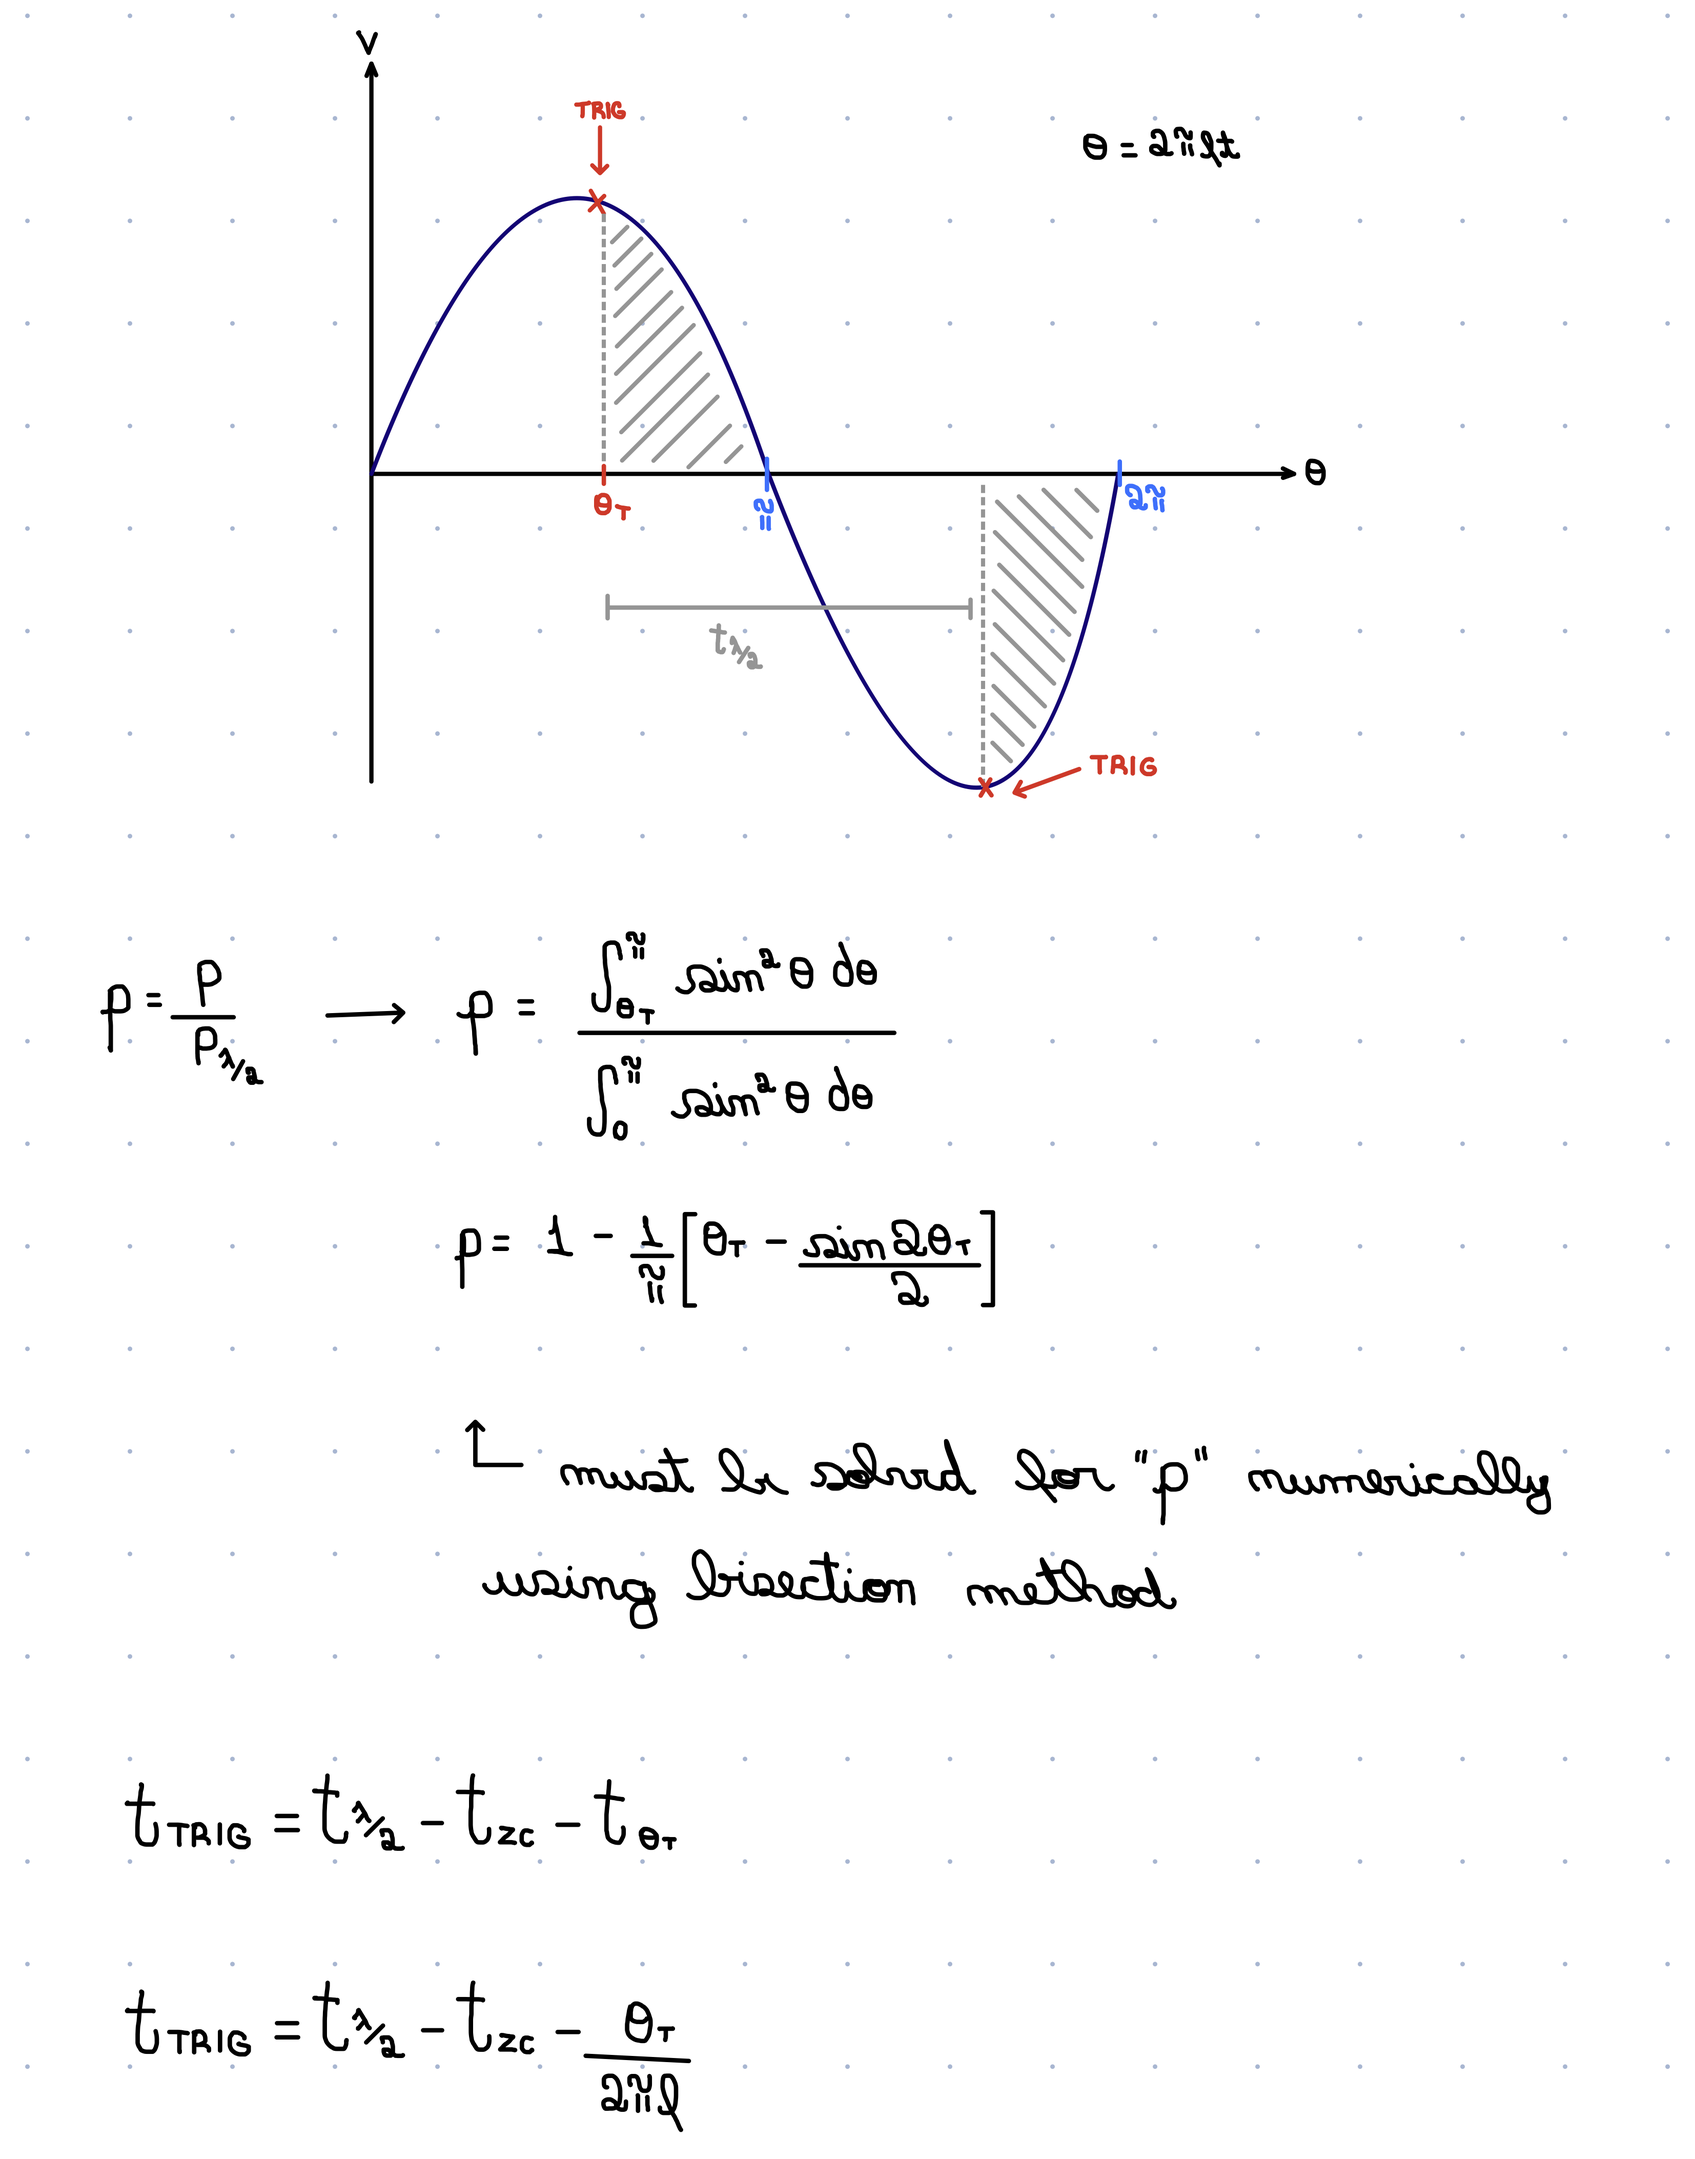
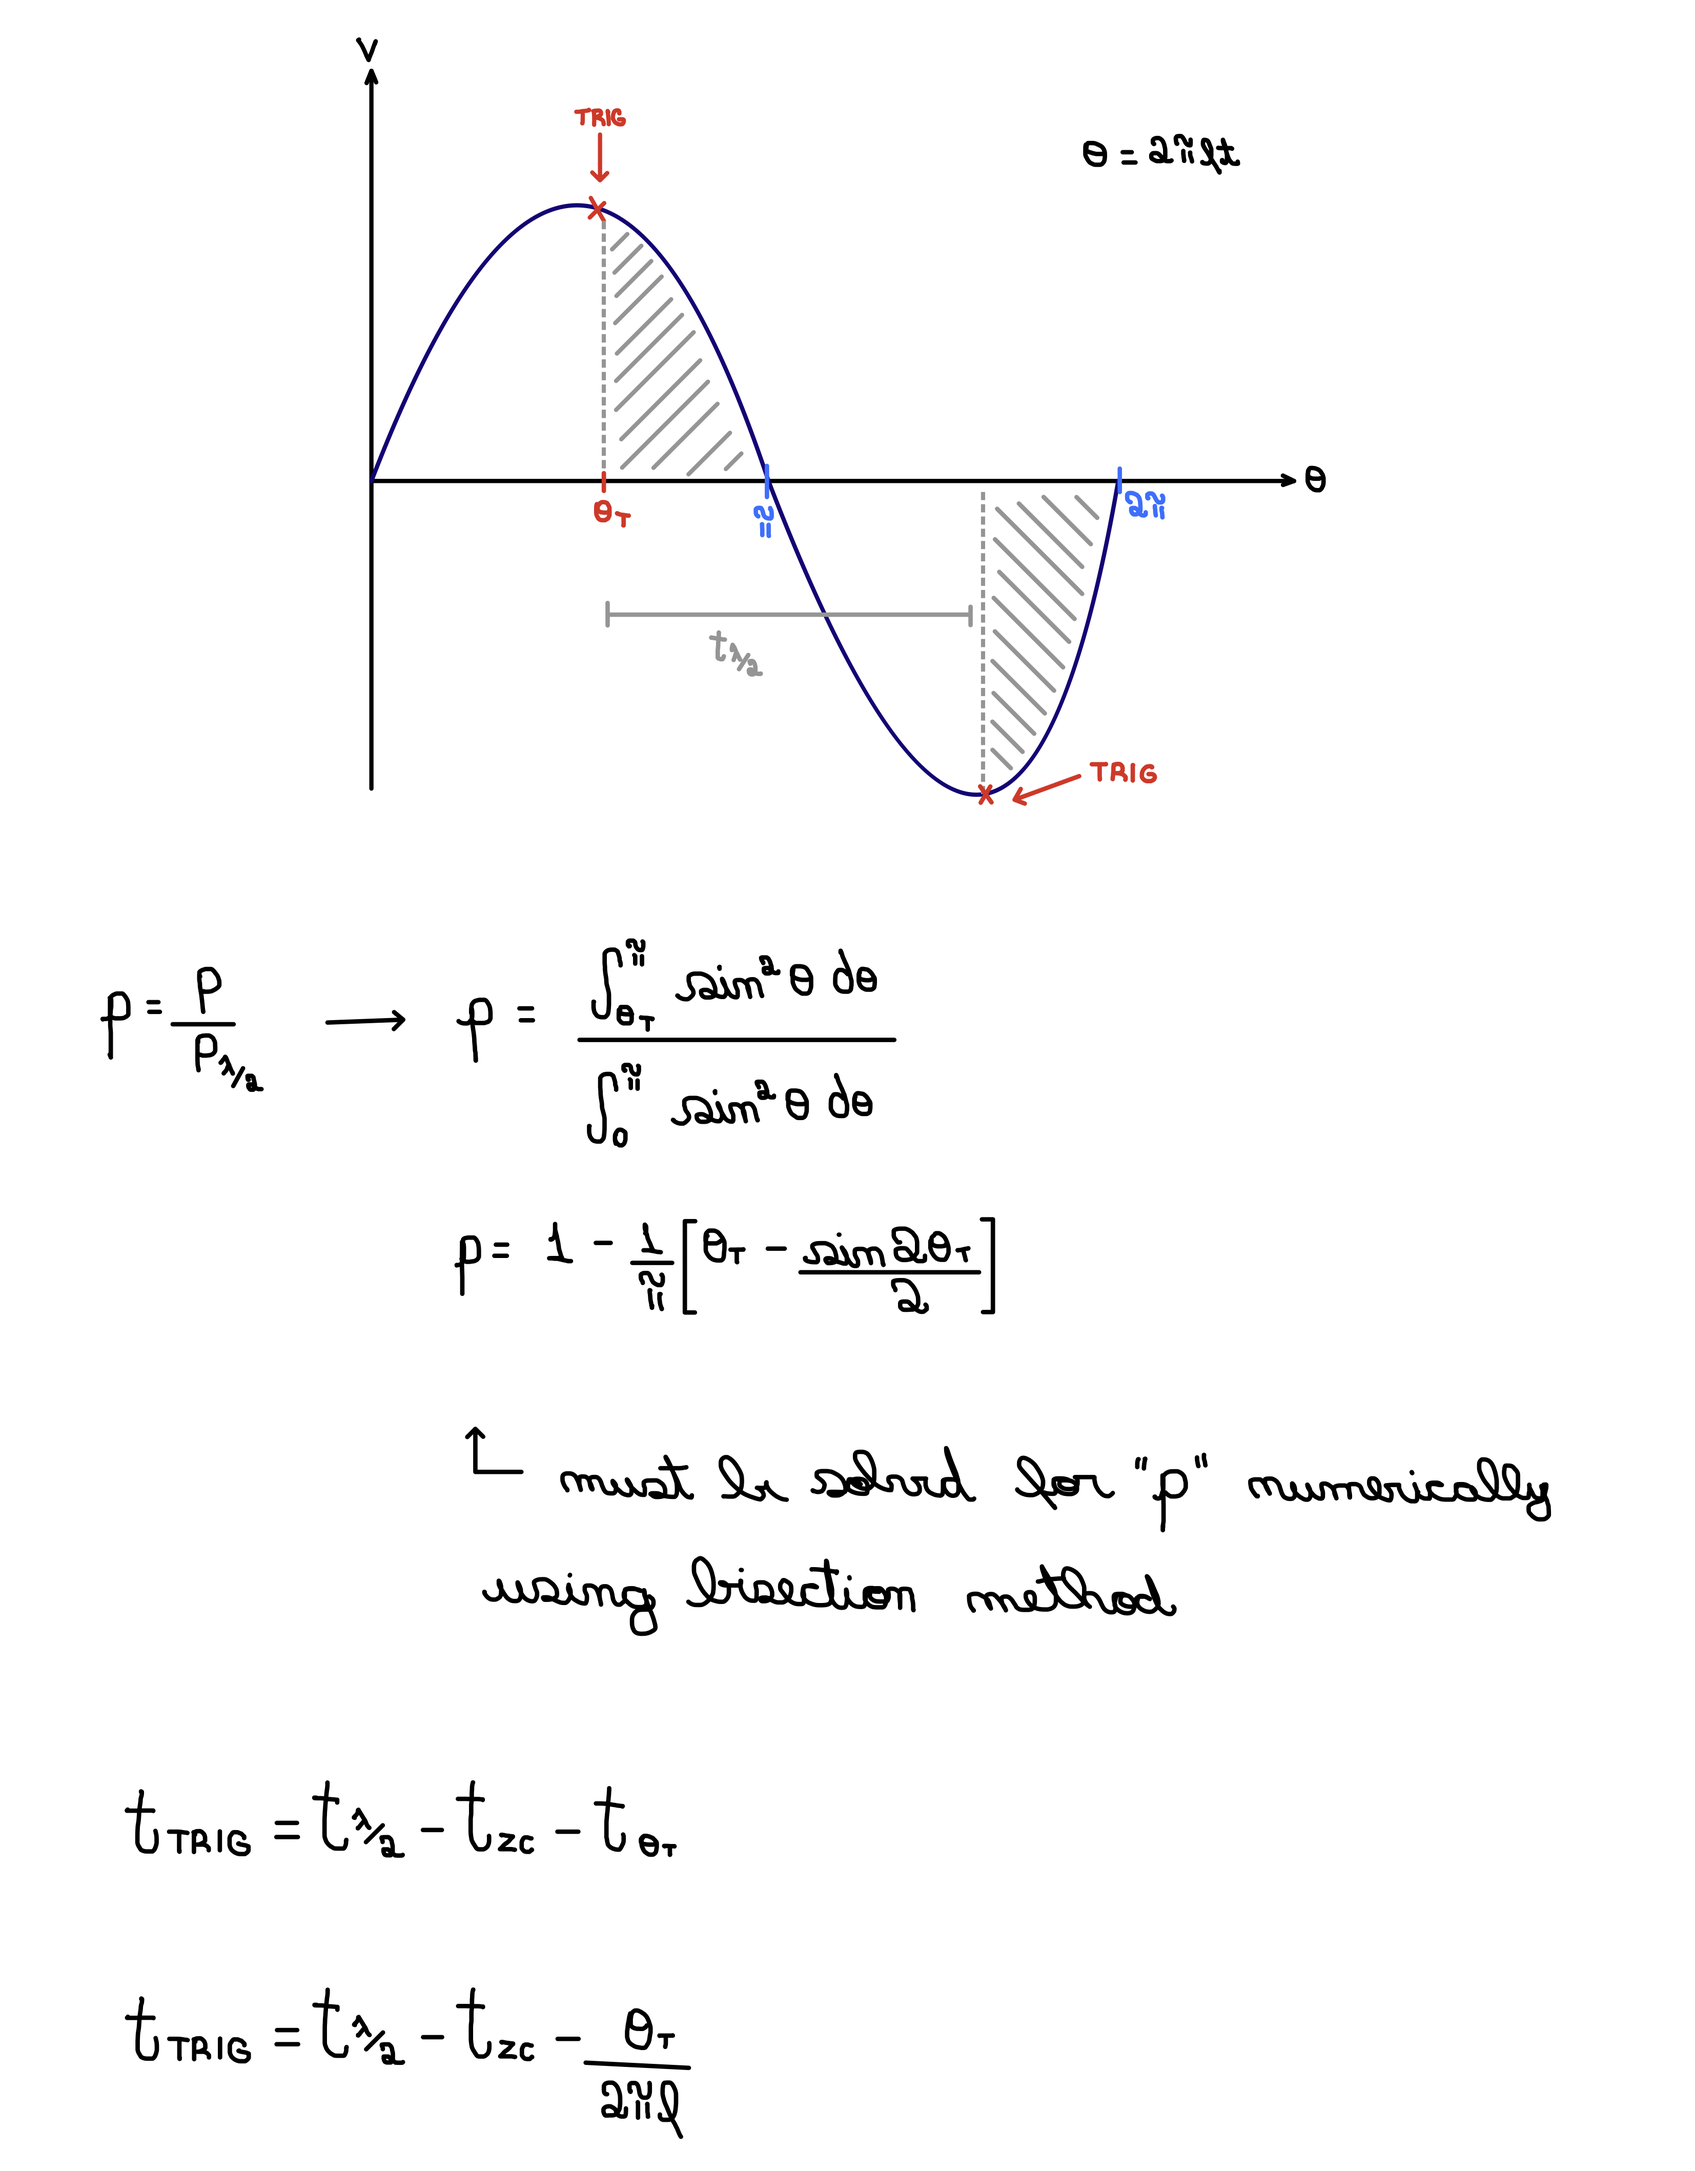
Remove Dotted BG from Images in README

diff --git a/src/Dimmer_ITC.cpp b/src/Dimmer_ITC.cpp
@@ -253,12 +253,13 @@ void Dimmer_ITC::breathe()
 void IRAM_ATTR Dimmer_ITC::onZeroCrossISR() 
 {
         uint64_t now = time();
-        if(now - _then >= DEBOUNCE) 
-        {
-                timer1_write((_offTime - _calibration) * 5);
-                _frequency = 1E+6 / (now - _then);
-                _then = now;
-        }
+        
+        if(now - _then < DEBOUNCE) return;
+
+        _frequency = 1E+6 / (now - _then);
+        _then = now;
+
+        timer1_write((_offTime - _calibration) * 5);
 }
 
 
